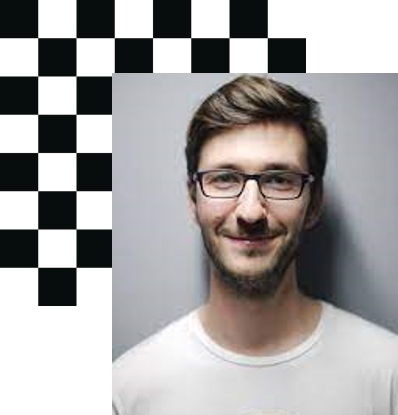
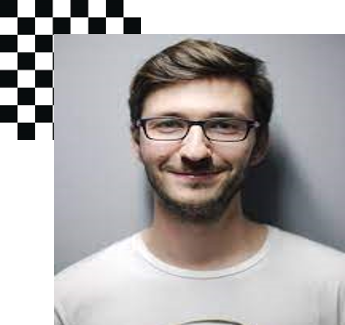
Fix margins and some font sizes

diff --git a/styles.css b/styles.css
@@ -1,5 +1,6 @@
 *{
     box-sizing: border-box;
+    font-family: Helvetica, sans-serif;
 }
 .social-media{
     background-color: #272A31;
@@ -52,18 +53,46 @@ nav{
     background-position: center ;
     padding-bottom: 100px;
 }
+header{
+    padding-top: 30px;
+}
 
 header div{
     padding-left: 12px;
     padding-right: 12px;
 }
 
-.textheader{
-    padding-left: 25px;
+header div h2{
+    font-size: 34px;
+    color: orangered;
 }
 
+header div h1{
+    font-size: 34px;
+    font-weight: 900;
+    background-image: linear-gradient(10deg, #E21143, #FFB03A);
+    -webkit-background-clip: text;
+    color: transparent;
+}
+.textheader{
+    padding-left: 10px;
+    padding-right: 10px;
+    font-size: 16px;
+    font-weight:500;
+    border: 2px solid #cae7f6;
+    margin-top:20px;
+    margin-bottom:20px;
+    margin-left: 10px;
+    margin-right: 10px
+}
+
+.textheader-bottom p:nth-child(1){
+    font-weight: 800;
+}
 .textheader-bottom p:nth-child(2){
     margin-bottom: 0;
+    font-size: 16px;
+    font-weight: 600;
 }
 
 .information{
@@ -117,8 +146,8 @@ header div{
 }
 
 .cards img{
-height: 80px;
-width: 80px;
+height: 60px;
+width: 60px;
 }
 
 .cards h3{
@@ -192,8 +221,8 @@ text-align: left;
 }
 
 .member-images img{
-    width: 130px;
-    height: 130px;
+    width: 150px;
+    height: 150px;
 }
 
 
@@ -248,8 +277,8 @@ footer{
 }
 
 footer img{
-    width: 120px;
-    height: 80px;
+    width: 110px;
+    height: 70px;
 }
 
 footer p{

diff --git a/index.html b/index.html
@@ -70,15 +70,15 @@
         </nav>
     <header>
         <div>
-        <h2>Global! World Tour</h2>
-        <h1>JOIN US ON THE BEST WORLD TOUR EVER GLOBAL TOUR 2022</h1>
+        <h2>"Dates! World Tour"</h2>
+        <h1>JOIN US IN THE GLOBAL TOUR 2022</h1>
         </div>
         <div class="textheader">
             <p>Lorem ipsum dolor sit amet consectetur adipisicing elit. Distinctio maxime molestiae facere assumenda perspiciatis nostrum ex, atque laboriosam cupiditate tenetur asperiores.</p>
         </div>
         <div class="textheader-bottom">
             <p>2022-03-15(MON) - 2022-12-15(THU)</p>
-            <p>@ first concert: Quito Pichincha Ecuador</p>
+            <p>First concert: Quito Pichincha Ecuador</p>
         </div>
     </div>
     </header>
